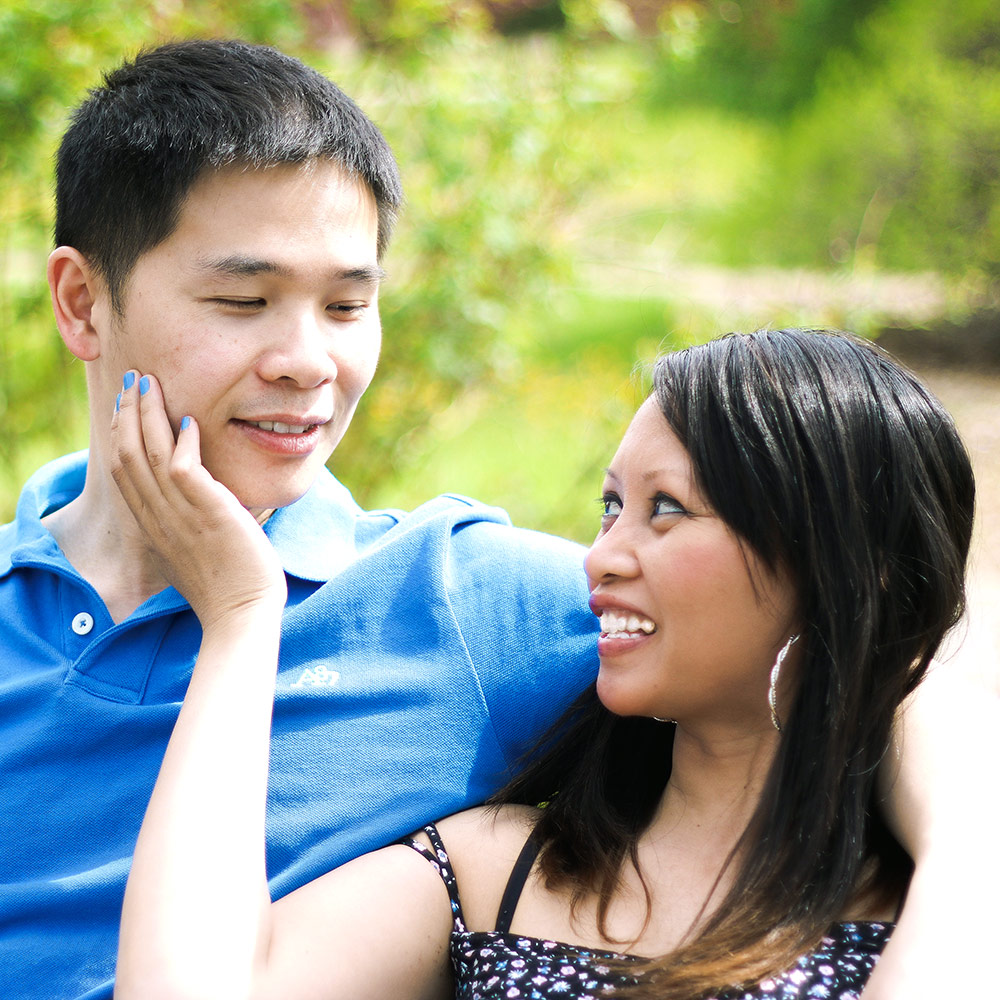
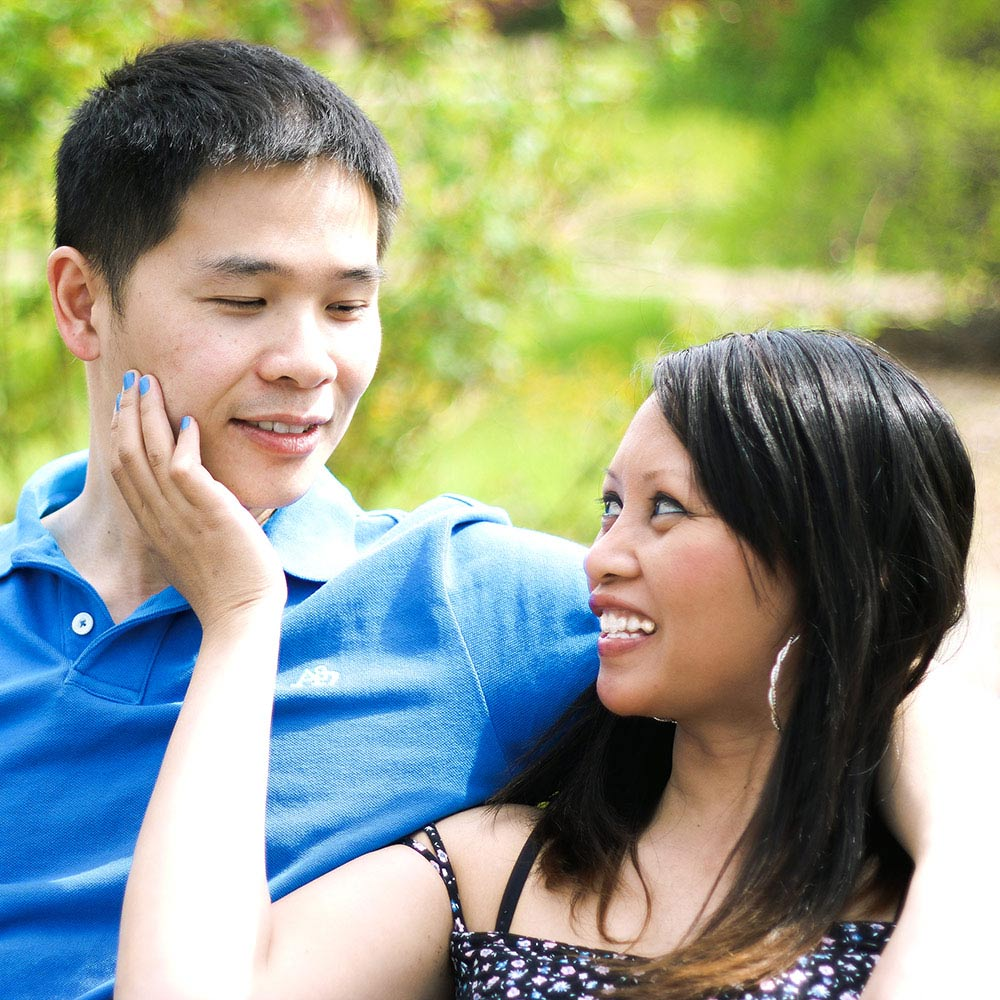
Added email html and optimized some images

Changed region(s): [[0.279, 0.589, 0.527, 0.837], [0.31, 0.558, 0.403, 0.651]]

diff --git a/index.html b/index.html
@@ -155,7 +155,7 @@
                 <img class="figure-img" src="images/home_image04.jpg" alt="Paulo Aquino" />
                 <figcaption>
                     <h2>Paulo Aquino</h2>
-                    <p><em>Best man</em></p>
+                    <p><em>Best Man</em></p>
                 </figcaption>
                 <details>
                     <summary>
